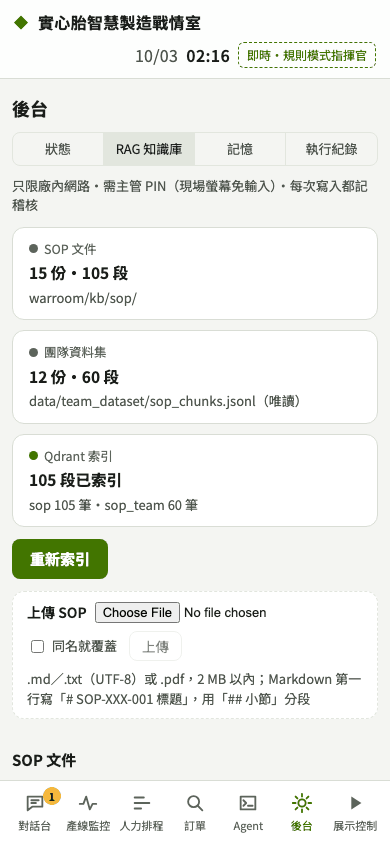
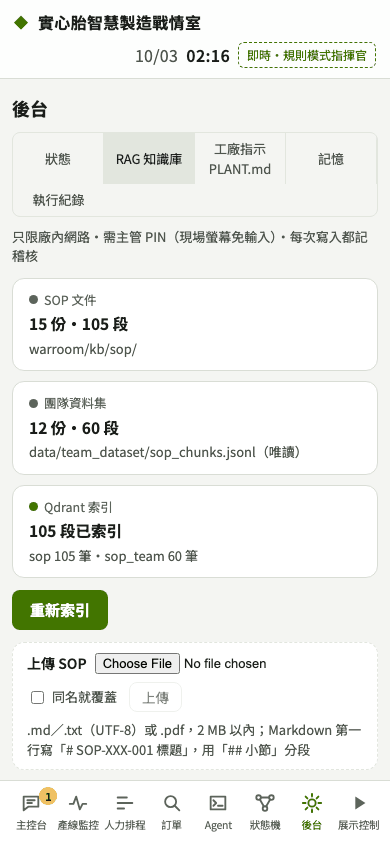
feat: state diagram labels, 狀態機 page layout, ticker at 390, hash-driven sub pages, e2e (81 checks), screenshots, docs (#37)

diff --git a/web/src/statemachine/statemachine.css b/web/src/statemachine/statemachine.css
@@ -10,19 +10,20 @@
 .sm-cats button { background: var(--panel); border: 1px solid var(--panel-3); border-radius: 999px; padding: 5px 13px; font-size: 13.5px; color: var(--ink-dim); display: inline-flex; gap: 6px; align-items: baseline; }
 .sm-cats button.on { background: var(--accent); border-color: var(--accent); color: var(--accent-ink); }
 .sm-cats small { font-size: 11.5px; opacity: .85; }
-.sm-board { display: grid; grid-auto-flow: column; grid-auto-columns: minmax(150px, 1fr); gap: 8px; overflow-x: auto; padding-bottom: 6px; scrollbar-width: thin; align-items: start; }
+.sm-board { display: grid; grid-auto-flow: column; grid-auto-columns: minmax(118px, 1fr); gap: 8px; overflow-x: auto; padding-bottom: 6px; scrollbar-width: thin; align-items: start; }
 .sm-col { background: var(--panel); border: 1px solid var(--border); border-radius: 12px; padding: 8px; display: flex; flex-direction: column; gap: 6px; min-height: 120px; }
 .sm-col.empty { opacity: .72; }
-.sm-col header { display: flex; align-items: baseline; gap: 6px; padding: 0 2px 4px; border-bottom: 1px solid var(--border); }
+.sm-col header { display: grid; grid-template-columns: 1fr auto; column-gap: 6px; align-items: baseline; padding: 0 2px 4px; border-bottom: 1px solid var(--border); }
+.sm-col header small { grid-row: 2; grid-column: 1 / -1; }
 .sm-col header b { font-size: 14px; }
 .sm-col header small { font-size: 10px; color: var(--ink-faint); }
-.sm-col header .sm-n { margin-left: auto; font-weight: 700; font-size: 14px; }
+.sm-col header .sm-n { grid-row: 1; grid-column: 2; font-weight: 700; font-size: 14px; }
 .sm-col[data-state="await_approval"] header { color: var(--warn); }
 .sm-col[data-state="safe_stop"] header { color: var(--alarm); }
 .sm-col[data-state="replan"] header { color: var(--line-c); }
 .sm-card { display: flex; flex-direction: column; gap: 3px; background: var(--panel-2); border: 1px solid var(--panel-3); border-radius: 10px; padding: 8px 9px; color: var(--ink); text-decoration: none; font-size: 13px; animation: sm-in .3s ease-out; }
 .sm-card:hover { border-color: var(--accent); }
-.sm-card-t { display: flex; justify-content: space-between; gap: 4px; align-items: baseline; }
+.sm-card-t { display: flex; flex-wrap: wrap; justify-content: space-between; gap: 2px 4px; align-items: baseline; }
 .sm-card-t .tag { margin: 0; flex: none; }
 .sm-card-w { color: var(--ink-dim); font-size: 12.5px; display: -webkit-box; -webkit-line-clamp: 2; -webkit-box-orient: vertical; overflow: hidden; }
 .sm-card-m { display: flex; flex-wrap: wrap; gap: 2px 8px; font-size: 12px; color: var(--ink-dim); }

diff --git a/web/src/agent/StateDiagram.tsx b/web/src/agent/StateDiagram.tsx
@@ -18,7 +18,7 @@ const LOOP = new Set(['verify>replan', 'replan>simulate', 'gate>replan', 'await_
 function edgePath(a: EventState, b: EventState): { d: string; lx: number; ly: number } {
   const [x1, y1] = POS[a], [x2, y2] = POS[b]
   const hw = NODE_W / 2, hh = NODE_H / 2
-  if (y1 === y2 && x2 > x1 && Math.abs(x2 - x1) < 130) return { d: `M${x1 + hw},${y1} L${x2 - hw},${y2}`, lx: (x1 + x2) / 2, ly: y1 - 8 }
+  if (y1 === y2 && x2 > x1 && Math.abs(x2 - x1) < 130) return { d: `M${x1 + hw},${y1} L${x2 - hw},${y2}`, lx: (x1 + x2) / 2, ly: y1 - hh - 6 }
   if (a === 'classify' && b === 'closed') return { d: `M${x1},${y1 - hh} C${x1},${y1 - 70} ${x2},${y2 - 70} ${x2},${y2 - hh}`, lx: (x1 + x2) / 2, ly: y1 - 56 }
   if (a === 'execute' && b === 'await_approval') return { d: `M${x1 - 20},${y1 - hh} C${x1 - 30},${y1 - 44} ${x2 + 30},${y2 - 44} ${x2 + 20},${y2 - hh}`, lx: (x1 + x2) / 2, ly: y1 - 40 }
   if (b === 'safe_stop') return { d: `M${x1 + (a === 'closed' ? 0 : 18)},${y1 + hh} C${x1 + 18},${y2} ${x2 - 60},${y2} ${x2 - hw},${y2}`, lx: (x1 + x2) / 2, ly: y2 - 6 }

diff --git a/web/src/statemachine/StateMachinePage.tsx b/web/src/statemachine/StateMachinePage.tsx
@@ -13,6 +13,7 @@ import { STATE_CODE } from '../agent/stateGraph'
 import { apiGet } from '../transport'
 import { useWarRoom } from '../useWarRoom'
 import { BOARD, CATEGORY_LABEL, categoryOf, enteredAt, waitingOn, type Category, type Day, type DayRun } from './runs'
+import '../admin/admin.css'
 import './statemachine.css'
 
 type View = 'live' | 'day'
@@ -24,6 +25,11 @@ export function StateMachinePage() {
   const { transport } = useWarRoom()
   const [view, setView] = useState<View>(() => (/#sm\/day/.test(location.hash) ? 'day' : 'live'))
   const go = (v: View) => { setView(v); history.replaceState(null, '', `${location.pathname}${location.search}#sm${v === 'day' ? '/day' : ''}`) }
+  useEffect(() => {
+    const f = () => { if (/^#sm/.test(location.hash)) setView(/#sm\/day/.test(location.hash) ? 'day' : 'live') }
+    window.addEventListener('hashchange', f)
+    return () => window.removeEventListener('hashchange', f)
+  }, [])
   return (
     <div className="smp" data-testid="sm-page">
       <header className="admin-h">

diff --git a/web/src/agent/agent.css b/web/src/agent/agent.css
@@ -516,6 +516,7 @@
   .tk-fixed { justify-content: space-between; }
   .tk-run { grid-column: 1 / -1; grid-row: 2; flex-wrap: wrap; }
   .tk-pinned { max-width: none; width: 100%; border-right: 0; border-bottom: 1px solid var(--border); }
+  .tk-view { flex: 1 1 100%; }
   .tk-toast { left: 16px; right: 16px; text-align: center; }
 }
 
@@ -529,7 +530,7 @@
 .sm-wrap { overflow-x: auto; scrollbar-width: thin; }
 .sm-wrap svg { display: block; width: 100%; min-width: 720px; height: auto; }
 .sm-e path { fill: none; stroke: var(--panel-3); stroke-width: 1.6; }
-.sm-e.rail path { stroke-dasharray: 2 4; opacity: .7; }
+.sm-e.rail path { stroke-dasharray: 2 4; opacity: .45; }
 .sm-e.on path { stroke: var(--accent); stroke-width: 2.6; }
 .sm-e.on.loop path { stroke: var(--line-c); stroke-dasharray: 8 5; animation: sm-flow 1.2s linear infinite; }
 @keyframes sm-flow { to { stroke-dashoffset: -26; } }

diff --git a/web/src/admin/AdminPage.tsx b/web/src/admin/AdminPage.tsx
@@ -39,6 +39,11 @@ export function AdminPage() {
   const { transport } = useWarRoom()
   const [page, setPage] = useState<Page>(() => (/#admin\/(\w+)/.exec(location.hash)?.[1] as Page) || 'status')
   const go = (p: Page) => { setPage(p); history.replaceState(null, '', `${location.pathname}${location.search}#admin/${p}`) }
+  useEffect(() => {
+    const f = () => { const m = /#admin\/(\w+)/.exec(location.hash)?.[1] as Page | undefined; if (m && PAGES.some((x) => x.id === m)) setPage(m) }
+    window.addEventListener('hashchange', f)
+    return () => window.removeEventListener('hashchange', f)
+  }, [])
   if (transport?.mode === 'mock') return <div className="loading">後台需要連線後端（瀏覽器模擬模式沒有知識庫與稽核紀錄）。</div>
   return (
     <div className="admin" data-testid="admin-page">

diff --git a/web/src/agent/tickerItems.ts b/web/src/agent/tickerItems.ts
@@ -20,7 +20,7 @@ export interface Success { key: string; kind: 'done' | 'shipped'; orderIds: stri
 export function successOf(e: WorldEvent): Success | null {
   const kind = e.kind === 'order_completed' || e.kind === 'order_done' ? 'done' : e.kind === 'shipment_departed' ? 'shipped' : null
   if (!kind) return null
-  const ids = e.order_ids?.length ? e.order_ids : (/#[A-Z]-\d+/.exec(e.text) ?? []).slice(0, 1)
+  const ids = e.order_ids?.length ? e.order_ids : (/#\p{Lu}-\d+/u.exec(e.text) ?? []).slice(0, 1)
   return { key: `${e.ts}|${e.kind}|${ids.join(',')}`, kind, orderIds: ids, qty: e.qty ?? null, onTime: e.on_time ?? null, ts: e.ts, text: e.text }
 }
 export function successText(s: Success): string {

diff --git a/web/src/admin/admin.css b/web/src/admin/admin.css
@@ -60,7 +60,7 @@
 @media (max-width: 599px) {
   .mem-groups { grid-template-columns: minmax(0, 1fr); }
   .admin-team ul { columns: 1; }
-  .admin-h .seg { width: 100%; display: grid; grid-template-columns: repeat(4, 1fr); }
+  .admin-h .seg { width: 100%; display: grid; grid-template-columns: repeat(auto-fit, minmax(88px, 1fr)); }
   .admin-h .seg button { padding: 6px 4px; font-size: 13px; }
 }
 @media (max-width: 599px) {

diff --git a/warroom/agent/plant.py b/warroom/agent/plant.py
@@ -115,7 +115,7 @@ class PlantPrompt:
         st = self._state()
         text = self.active_text()
         draft = st.get("draft")
-        return {"active": {"sha256": sha256(text), "text": text, "chars": len(text.strip()), "seed": not st.get("active"),
+        return {"active": {"sha256": sha256(text), "text": text, "chars": len(text.strip()), "seed": sha256(text) == sha256(self._seed_text()),
                            "seed_path": str(self.seed.relative_to(ROOT)) if self.seed.is_relative_to(ROOT) else str(self.seed)},
                 "draft": draft, "max_chars": MAX_CHARS, "history": list(reversed(st.get("history", []))),
                 "tests": st.get("tests", {})}

diff --git a/DESIGN.md b/DESIGN.md
@@ -6,7 +6,7 @@ The visual system as shipped in `web/`, recorded from the code (tokens in `web/s
 
 - **Light (default).** Near-white neutrals, dark ink, the green accent darkened for text and buttons.
 - **Dark.** The original palette, unchanged except `--ink-faint` (raised from `#7f867e` to `#868d85` so it reaches 4.5:1 on `--panel-2`).
-- Switch: one icon button (aria-label 「切換亮色／暗色」) at the right end of the home status line and in the phone header. The choice is kept in `localStorage` under `warroom-theme` (read and written inside try/catch). With nothing stored the page is light; the system preference is not used. An inline script in `index.html` and `phone.html` sets `data-theme` before first paint, and `theme.ts` keeps it in sync and updates `<meta name="theme-color">`.
+- Switch: one icon button (aria-label 「切換亮色／暗色」) at the right end of the 主控台 ticker and in the phone header. The choice is kept in `localStorage` under `warroom-theme` (read and written inside try/catch). With nothing stored the page is light; the system preference is not used. An inline script in `index.html` and `phone.html` sets `data-theme` before first paint, and `theme.ts` keeps it in sync and updates `<meta name="theme-color">`.
 - Mechanism: `:root` holds the dark values; `:root[data-theme="light"]` overrides them. Every colour that used to be hard-coded below `:root` now reads a variable whose fallback is its original dark value (`var(--c-ffd0cb, #ffd0cb)`, `rgb(var(--alarm-rgb, 255 93 82) / .45)`), so the dark look is byte-for-byte the old one and the light theme only defines variables. New code uses the tokens below, never a raw hex, and never a hard-coded white or black surface.
 
 ## Tokens
@@ -35,7 +35,7 @@ Contrast (WCAG, measured on `--panel` and `--panel-2`): light ink 17.0 / 14.8, i
 ## Layout (UX brief, prototype v12)
 
 - **Header:** product name, tabs 主控台 · 產線監控 · 人力排程 · 訂單 · Agent · 狀態機 · 後台 (工廠全貌 merged into 產線監控, issue #37), factory time, network / LLM status. No extra buttons; demo controls stay in the 展示 strip (bottom sheet under 1024 px).
-- **主控台 (home; was 對話台):** a status line (machines normal / abnormal, today's de-molds vs schedule, next truck, people short on the current shift, pending approvals, theme toggle), then three docked columns at ≥1100 px:
+- **主控台 (home; was 對話台):** a 產線監控 ticker (CJ, 2026-10-20: 「幫我設計成產線監控的跑馬燈好了」): fixed 正常 / 異常 / 待核准 counts on the left, then live plant items scrolling (per line, each curing press, output vs plan, next truck, materials, dock, staffing, latest closed event, order completions and shipments); alarm / warning items pinned first in their colour; hover or focus pauses it; an item opens 產線監控 on its machine or line; reduced motion shows a static wrapping row; theme toggle at the right end; at 390 px the counts sit above the ticker. Then three docked columns at ≥1100 px:
   - 核准區 list (260 px), ranked ① 安全／機台異常 ② 交期風險 ③ 插單／人力決定 ④ 執行中 ⑤ AI 已自行處理 (collapsed);
   - 計劃板 (the rest): a dotted-grid board of step cards S1…Sn joined by `depends_on` arrows (waiting cards outlined in `--warn`, cards a new version changed marked 「改」), then 對交期的影響, 核准後誰去做, the option picker, and **核准 / 討論** pinned at the bottom;
   - Agent 對話 (360 px), which follows the selected item or shows 全部.
